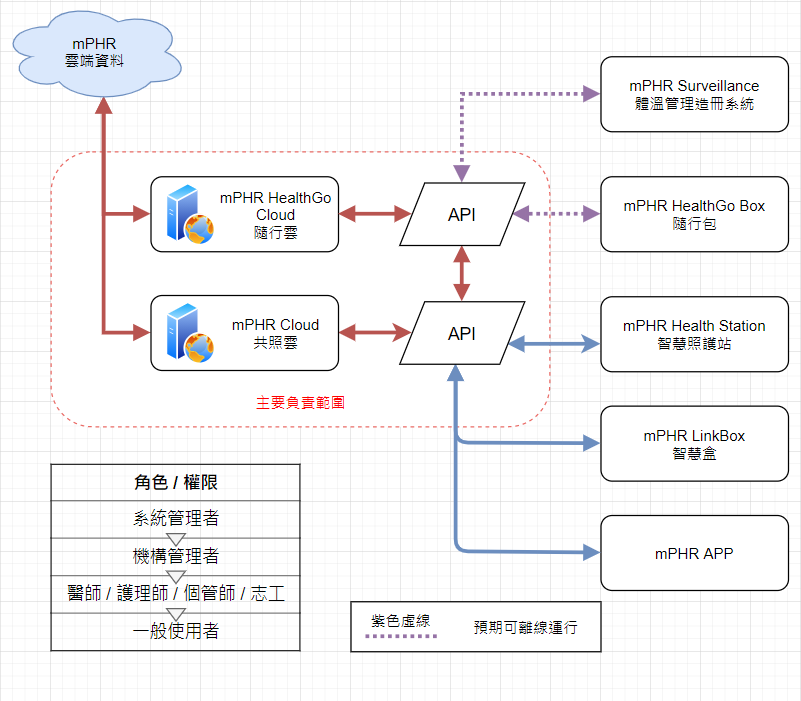
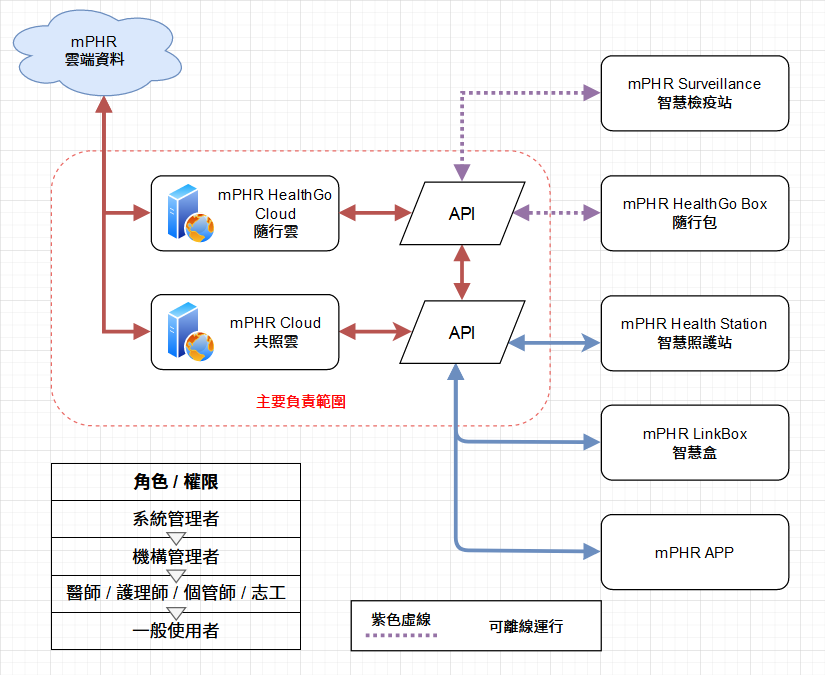
Modify 更新內容

diff --git a/index.html b/index.html
@@ -57,8 +57,8 @@
           <h3 class="text-primary">.NET Core WebAPI (C#) Developer</h3>
           <h3 class="text-primary">Front-end Developer</h3>
           <p class="from">AdvMeds Co., Ltd. 2018-07 ~ Now</p>
-          <p class="p-indent">負責公司醫療輔具產品的雲端、後端服務開發與統整，且與旗下設備、異業平台串接，<mark>打造智慧醫療與智慧照護的資訊平台</mark>。並於開發職務一年後，升任組長，除繼續原本程式設計的工作外，還須負責統籌專案發展、部門間溝通和開發任務的分配等管理工作。</p>
-          <div class="text-center"><img class="img-fluid" src="assets/img/experience/mphr.png" /></div>
+          <p class="p-indent">負責公司醫療輔具產品的雲端、後端服務開發與統整，且與旗下設備、異業平台串接，<mark>打造智慧醫療與智慧照護的資訊平台</mark>。並於開發職務一年後，升任組長，除繼續原本程式設計的工作外，同時負責統籌專案發展、部門間溝通和開發任務的分配等管理工作，<mark>提升垂直與橫向溝通效率，掌握市場動向，協助行銷業務讓開發能量能集中在最有效益的方向上。</mark></p>
+          <div class="text-center"><a href="assets/img/experience/mphr.png" target="_bank"><img class="img-fluid" src="assets/img/experience/mphr.png" /></a></div>
         </div>
         <div class="col-md-11 offset-md-1">
           <div class="row" style="margin-top:5%">
@@ -74,6 +74,27 @@
             <div class="col">
               <div class="collapse" id="collapseAdvmeds">
                 <div class="card-body">
+                  <div class="card text-white bg-primary mb-3">
+                    <h5 class="card-header">18. 組隊參加 2021 MI-TW 醫療標準化聯測松</h5>
+                    <div class="card-body">
+                      <p class="p-indent text-justify">參加「2021 標準化醫療與健康資訊教育訓練暨互通連測工作坊」活動，讓旗下產品使用 FHIR 規範，與各家醫療單位、廠商現場互通聯測。</p>
+                      <footer class="blockquote-footer text-white text-end">2021.11</footer>
+                    </div>
+                  </div>
+                  <div class="card text-white bg-primary mb-3">
+                    <h5 class="card-header">17. 受「AWS」官方邀請，分享技術應用</h5>
+                    <div class="card-body">
+                      <p class="p-indent text-justify">代表公司參與「2021 AWS Industry Week Taiwan」活動，以技術結合商業應用的角度分享《醫療資訊新創的 AWS 起手勢》。</p>
+                      <footer class="blockquote-footer text-white text-end">2021.10</footer>
+                    </div>
+                  </div>
+                  <div class="card text-white bg-primary mb-3">
+                    <h5 class="card-header">16. 因應台灣疫情警戒上升，「智慧檢疫站」產品進入快速迭代改版狀態</h5>
+                    <div class="card-body">
+                      <p class="p-indent text-justify">因台灣本土 COVID-19 確診人數急速上升，國內檢疫需求大增，配合不同情境的緊急需求，不斷調整產品內容，追加數個場域回饋的重要功能和調整，專注在疫情前線的變化。</p>
+                      <footer class="blockquote-footer text-white text-end">2021.05 - 2021.10</footer>
+                    </div>
+                  </div>
                   <div class="card text-white bg-primary mb-3">
                     <h5 class="card-header">15. 跨組協助重構 HIS 醫院資訊系統</h5>
                     <div class="card-body">
@@ -98,14 +119,14 @@
                   <div class="card text-white bg-primary mb-3">
                     <h5 class="card-header">12. 開發「兒童早期療育中心」所需的資料後台</h5>
                     <div class="card-body">
-                      <p class="p-indent text-justify">以 .NET Core 3.1 WebAPI + Vue.js 前後端分離的架構基礎，為解決兒童早療院所長期累積大量紙本資料難以分析的問題，協助電子化資料彙整、個案追蹤的後台網站，</p>
+                      <p class="p-indent text-justify">以 .NET Core 3.1 WebAPI + Vue.js 前後端分離的架構基礎，為解決兒童早療院所長期累積大量紙本資料難以分析的問題，協助電子化資料彙整、個案追蹤的後台網站。現已轉交給組員協作後續開發與維護。</p>
                       <footer class="blockquote-footer text-white text-end">2020.05 - 2020.07</footer>
                     </div>
                   </div>
                   <div class="card text-white bg-primary mb-3">
-                    <h5 class="card-header">11. 開發針對 COVID-19 疫情的「體溫管理造冊系統」 <span class="badge bg-warning text-dark">重點職務</span></h5>
+                    <h5 class="card-header">11. 開發針對 COVID-19 疫情的「智慧檢疫站」系統 <span class="badge bg-warning text-dark">重點職務</span></h5>
                     <div class="card-body">
-                      <p class="p-indent text-justify">以 .NET Core 3.1 MVC + APP API Server 為架構基礎，透過 APP 串接體溫量測硬體，回傳雲端即時顯示體溫儀表板，並開發線上實聯制健康聲明問卷、串接健保署特定地區旅遊及接觸史查詢、訪客通行證的進出管制與人員造冊系統。提供給醫療院所、企業、校園等機關可快速識別人員和追蹤量測後動向的一套資訊服務。持續開發新功能並維護至今。</p>
+                      <p class="p-indent text-justify">從「智慧照護站」系統延伸，以 .NET Core 3.1 MVC + APP API Server 為架構基礎，透過 APP 串接體溫量測硬體，回傳雲端即時顯示體溫儀表板，並開發線上實聯制健康聲明問卷、串接健保署特定地區旅遊及接觸史查詢、訪客通行證的進出管制與人員造冊系統。提供給醫療院所、企業、校園等機關可快速識別人員和追蹤量測後動向的一套資訊服務。持續開發新功能並維護至今。</p>
                       <footer class="blockquote-footer text-white text-end">2020.02 - </footer>
                     </div>
                   </div>
@@ -119,7 +140,7 @@
                   <div class="card text-white bg-primary mb-3">
                     <h5 class="card-header">9. 升任「雲端照護組」組長 <span class="badge bg-warning text-dark">重點職務</span></h5>
                     <div class="card-body">
-                      <p class="p-indent text-justify">受惠於公司給予的機會，接掌負責照護產品後端開發的組長；除程式開發外兼任管理職，妥善處理專案發展、溝通、任務分配等管理工作。</p>
+                      <p class="p-indent text-justify">受惠於公司給予的機會，接掌負責照護產品後端開發的組長；除程式開發外兼任管理職，妥善處理專案發展、溝通、任務分配等管理工作。任職兩年內，組內軟體工程師的年離職率從 60% 降低為 10% 、成員擴編為 150% ，並成功主導翻新了三個年久失修的專案並重新推上案場等成果。</p>
                       <footer class="blockquote-footer text-white text-end">2019.08 - </footer>
                     </div>
                   </div>
@@ -136,7 +157,7 @@
                     </div>
                   </div>
                   <div class="card text-white bg-primary mb-3">
-                    <h5 class="card-header">6. 擴增「活動」等功能增加社區凝聚力</h5>
+                    <h5 class="card-header">6. 擴增「舉辦活動」等功能增加社區凝聚力</h5>
                     <div class="card-body">
                       <p class="p-indent text-justify">為傳統社區打造一個發佈活動、參與活動與報到管理的系統，讓社區民眾能透過共照平台參與社區舉辦的各式活動、課程和線下交流，活絡社區互動和有效提升管理效率。</p>
                     </div>
@@ -167,9 +188,9 @@
                     </div>
                   </div>
                   <div class="card text-white bg-primary mb-3">
-                    <h5 class="card-header">1. 智慧照護站網站後台功能開發 <span class="badge bg-warning text-dark">重點職務</span></h5>
+                    <h5 class="card-header">1. 「智慧照護站」網站後台功能開發 <span class="badge bg-warning text-dark">重點職務</span></h5>
                     <div class="card-body">
-                      <p class="p-indent text-justify">針對各個醫療、社區、商業場域，設計各種客製化設定與功能。持續開發新功能並維護至今。</p>
+                      <p class="p-indent text-justify">剛進入公司至今仍持續負責的主要工作，朝著提高精準醫療和智慧照護的品質為目標，配合各個醫療、社區、商業場域，設計各種客製化設定與功能，持續開發新功能並維護至今。</p>
                       <footer class="blockquote-footer text-white text-end">2018.07 - </footer>
                     </div>
                   </div>
@@ -488,7 +509,7 @@
             <button type="button" class="btn-close" data-bs-dismiss="modal" aria-label="Close"></button>
           </div>
           <div class="modal-body text-justify">
-            <p>出社會工作也快五年了；看了看五年前自己寫的自傳後，決定用另外一種方式來詮釋自己。</p>
+            <p>出社會工作也超過五年了；看了看五年前自己寫的自傳後，決定用另外一種角度來詮釋現在的自己。</p>
             <br />
             <br />
             <br />
